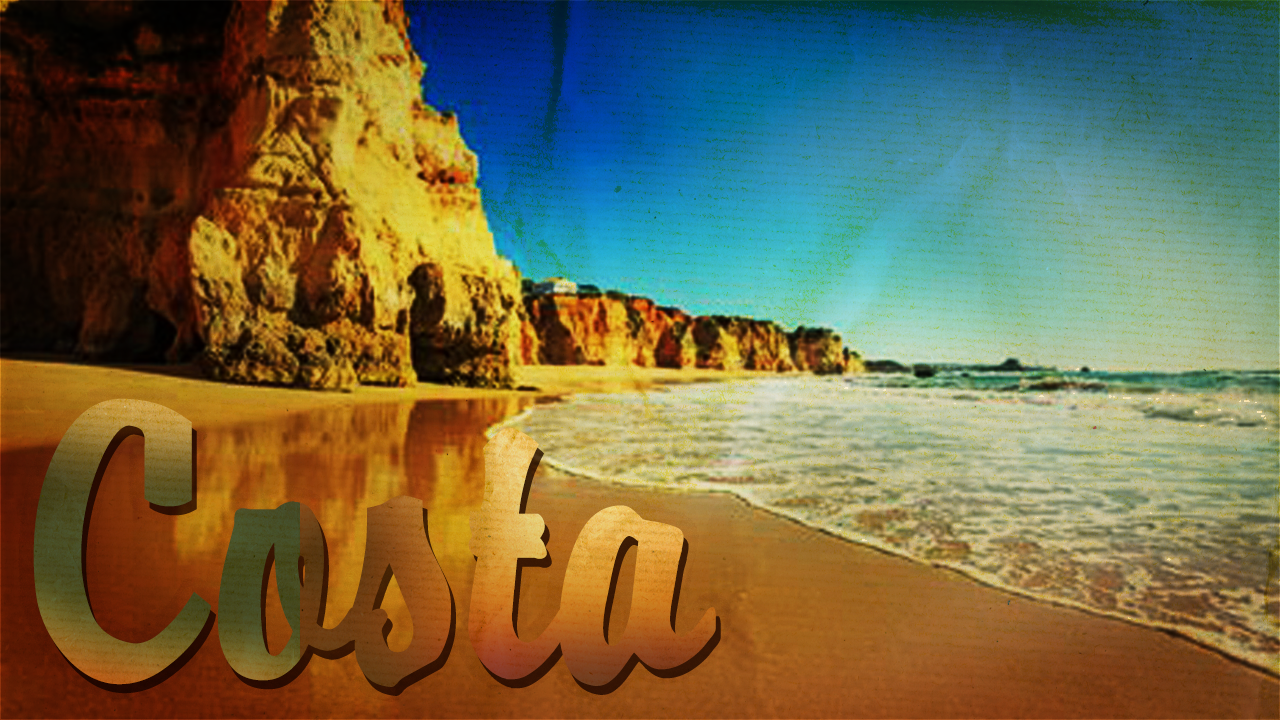
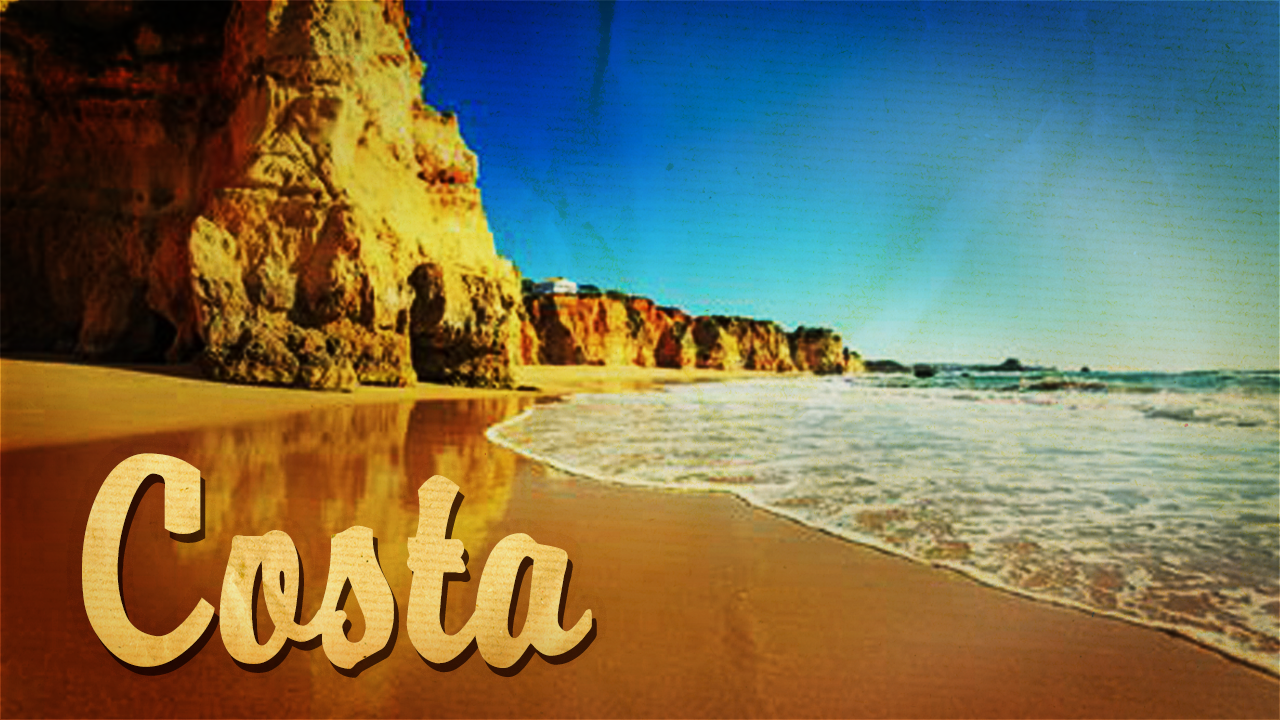
Nueva Imagen Costa

Changed region(s): [[0.0, 0.0, 1.0, 0.9778], [0.875, 0.7944, 0.9062, 0.825]]

diff --git a/sol/templates/sol/tarifas.html b/sol/templates/sol/tarifas.html
@@ -22,12 +22,12 @@
             <label class="radioZona zCosta" for="btnCosta">
                 <img sizes="(max-width: 1280px) 100vw, 1280px"
                 srcset="
-                {% static 'Images/Tarifas/costa/costa_knzdha_c_scale,w_200.png' %} 200w,
-                {% static 'Images/Tarifas/costa/costa_knzdha_c_scale,w_651.png' %} 651w,
-                {% static 'Images/Tarifas/costa/costa_knzdha_c_scale,w_939.png' %} 939w,
-                {% static 'Images/Tarifas/costa/costa_knzdha_c_scale,w_1157.png' %} 1157w,
-                {% static 'Images/Tarifas/costa/costa_knzdha_c_scale,w_1280.png' %} 1280w"
-                src="{% static 'Images/Tarifas/costa/costa_knzdha_c_scale,w_1280.png' %}" alt="Sector Costa">
+                {% static 'Images/Tarifas/costa/costa_jfmuxx_c_scale,w_200.png' %} 200w,
+                {% static 'Images/Tarifas/costa/costa_jfmuxx_c_scale,w_638.png' %} 638w,
+                {% static 'Images/Tarifas/costa/costa_jfmuxx_c_scale,w_919.png' %} 919w,
+                {% static 'Images/Tarifas/costa/costa_jfmuxx_c_scale,w_1143.png' %} 1143w,
+                {% static 'Images/Tarifas/costa/costa_jfmuxx_c_scale,w_1280.png' %} 1280w"
+                src="{% static 'Images/Tarifas/costa/costa_jfmuxx_c_scale,w_1280.png' %}" alt="Sector Costa">
             </label>
         </div>
     </div>
